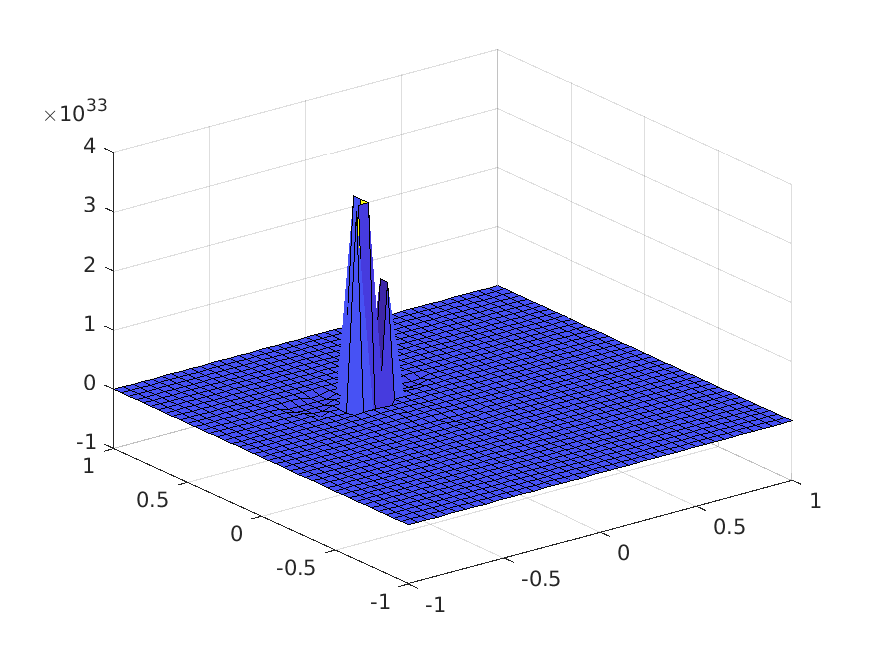
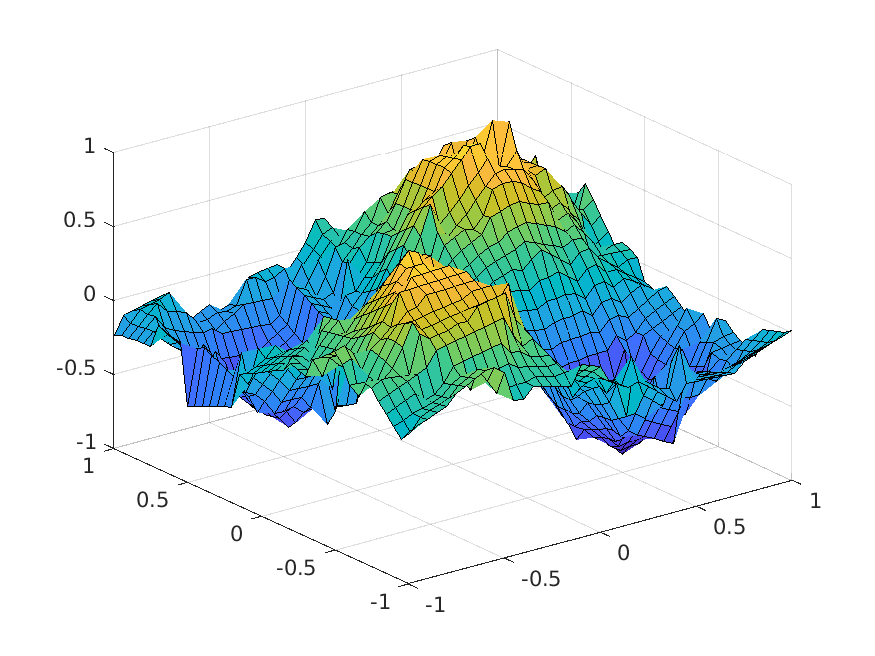
fixed bugs

diff --git a/Codes1.1/Codes3D/InitMatLawsonSparse.m b/Codes1.1/Codes3D/InitMatLawsonSparse.m
@@ -5,23 +5,19 @@ Ccoarse = spalloc(2 * blksize * K, 2 * blksize * K, blksize^2 * K * 2 * 3); % Ho
 Cfine = spalloc(2 * blksize * K, 2 * blksize * K, blksize^2 * K * 2); % How much memory do I need?
 
 % Upper Right Block
-invM = inv(MassMatrix);
 for i = 1:K
     % Stiffness
     Dx = rx(1,i) * Dr + sx(1,i) * Ds + tx(1,i) * Dt;
     Dy = ry(1,i) * Dr + sy(1,i) * Ds + ty(1,i) * Dt;
     Dz = rz(1,i) * Dr + sz(1,i) * Ds + tz(1,i) * Dt;
-    Sx = invM * Dx; %invM or invMi?
-    Sy = invM * Dy;
-    Sz = invM * Dz;
-    S = [zeros(Np), -Sz, Sy; Sz, zeros(Np), -Sx; -Sy, Sx, zeros(Np)];
+    S = [zeros(Np), -Dz, Dy; Dz, zeros(Np), -Dx; -Dy, Dx, zeros(Np)];
     
     % Mass
     invMi = inv(J(1, i) * MassMatrix);
     invMi = blkdiag(invMi, invMi, invMi);
     
     % Diagonal entry
-    S = invMi * (S - SurfaceMassLawson(r,s,t,i));
+    S = S - invMi * SurfaceMassLawson(r,s,t,i);
     
     % fill the row
     for j = 1:K

diff --git a/Codes1.1/Codes3D/test.m b/Codes1.1/Codes3D/test.m
@@ -61,8 +61,11 @@ InitMatLawsonSparse;
 % zero initial condition 
 Hx = zeros(Np, K); Hy = zeros(Np, K); Hz = zeros(Np, K);
 Ex = zeros(Np, K); Ey = zeros(Np, K); Ez = zeros(Np, K);
-node_source = findNearestNode(source_coordinates);
-Ez(:,node_source(2)) = 1;
+%node_source = findNearestNode(source_coordinates);
+%Ez(:,node_source(2)) = 1;
+xmode = 1; ymode = 1; 
+Ez = sin(xmode*pi*x).*sin(ymode*pi*y);
+
 
 [Hx,Hy,Hz,Ex,Ey,Ez] = Maxwell3DMat(Hx,Hy,Hz,Ex,Ey,Ez,FinalTime,source,source_coordinates);
 

diff --git a/Codes1.1/Codes3D/Maxwell3DMat.m b/Codes1.1/Codes3D/Maxwell3DMat.m
@@ -53,7 +53,7 @@ while (time<FinalTime) % outer time step loop
    %plot
    %if time > nextplottime
        [Hx,Hy,Hz,Ex,Ey,Ez] = UToFields(U);
-       nextplottime = nextplottime + 0.2;
+       nextplottime = nextplottime + 0.1;
        f = figure('visible','off');
        PlotPlain3D(0, Ez); drawnow; pause(0.1);
        filename = "field" + num2str(tstep + ".png");

diff --git a/Codes1.1/Codes3D/SurfaceMassLawson.m b/Codes1.1/Codes3D/SurfaceMassLawson.m
@@ -26,7 +26,7 @@ for face=1:Nfaces
   
   for l=1:Nfp
      for j=1:Nfp
-         F(Fmask(l,face), Fmask(j,face)) = 0.5 * massFace(l, j); %wrong?
+         F(Fmask(l,face), Fmask(j,face)) = 0.5 * massFace(l, j);
      end
   end
   
